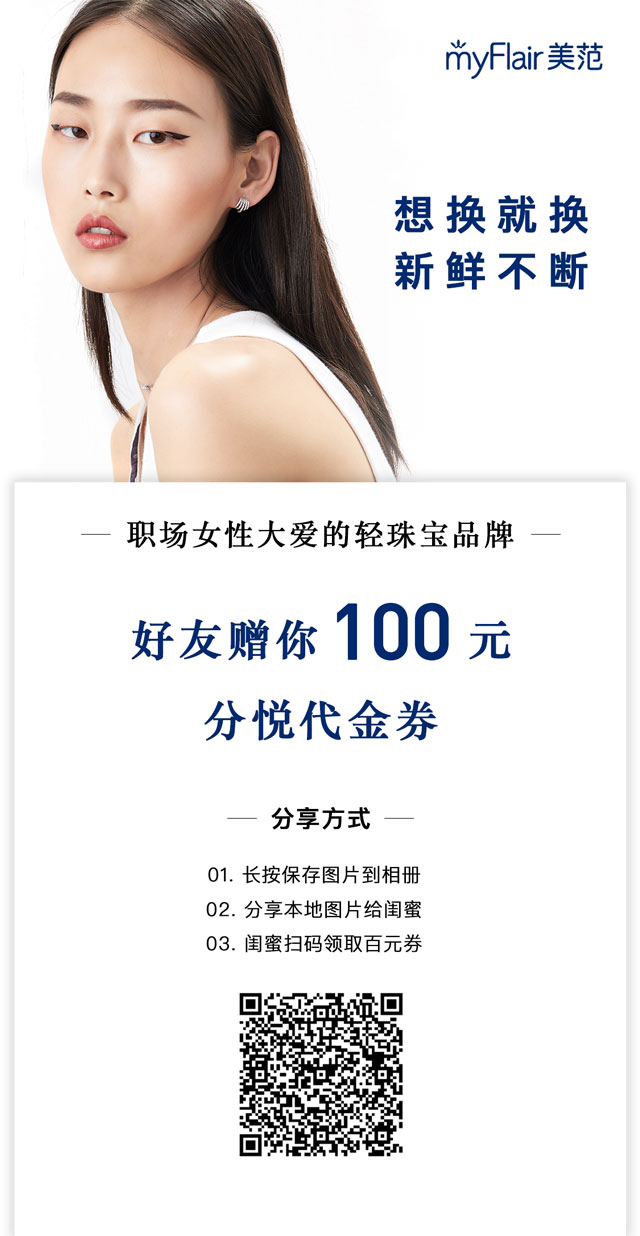
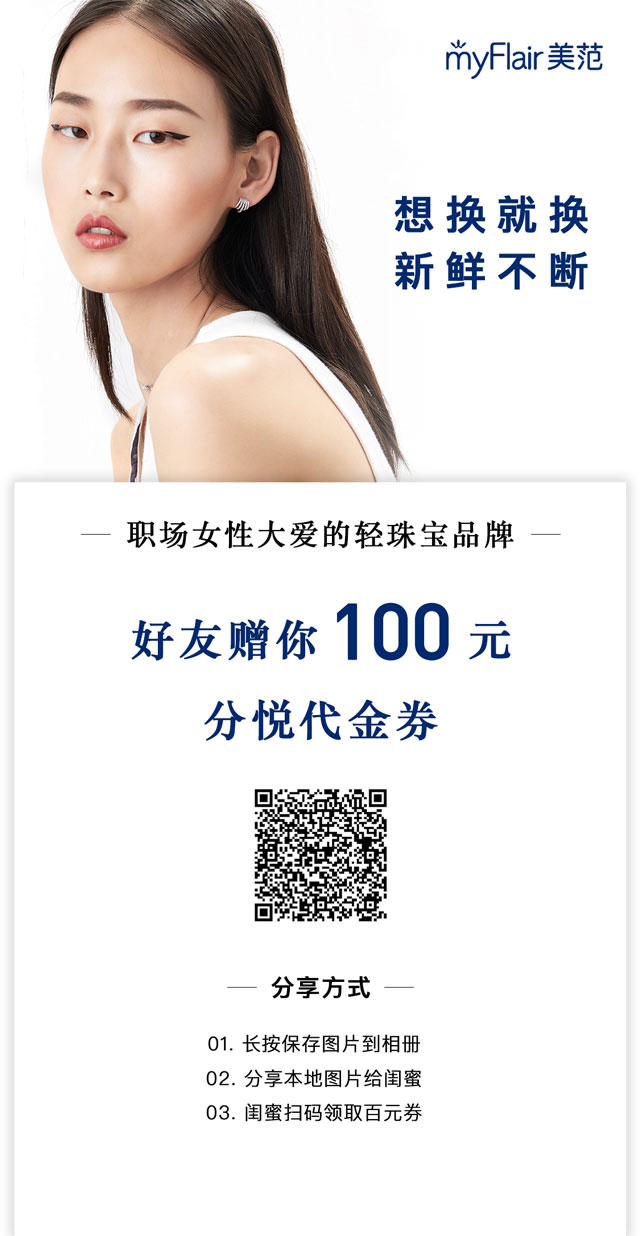
最新代码提交

Changed region(s): [[0.3125, 0.6149, 0.6562, 0.9531]]

diff --git a/src/main/webapp/myflair2/js/2019/pullnewmemberlog/get.js b/src/main/webapp/myflair2/js/2019/pullnewmemberlog/get.js
@@ -31,7 +31,7 @@ $(function(){
 						$(".friend_list_wrap").show().css("z-index","33");
 			            document.body.scrollTop = document.documentElement.scrollTop = 0;
 			            $(".share_wrap,.pop-save_wrap").show();
-			            $("#shareQRcode").attr("src","http://www.myflair.com.cn/getERWMImage1.do?mobile=15811559702");
+			            $("#shareQRcode").attr("src","http://www.myflair.com.cn/getERWMImage1.do?mobile="+mobile);
 					}else{
 						alert(data.msg);
 					}
@@ -65,18 +65,18 @@ $(function(){
 		$('.pop-save_wrap').hide();
 		oEvent.preventDefault(); 
 	});
+	var rlh = $(".rule_list_f").height();
 	$(".friend_list_wrap a.updown").on("click",function(){
 		var parent = $(this).parents(".friend_list_wrap");
-		var rlh = $(".rule_list_f").height(),
-			wh = $(window).height(),
-			showh = wh - 2*rlh,
-			smoveh = (wh - rlh)/2;
+		var	wh = $(window).height(),
+			showh = (wh/2)-rlh,
+			smoveh = rlh;
 		if (parent.hasClass('more') == false) {
             $(".friend_list_wrap").addClass("more");
-			$(".rule_list_f").animate({height:showh});  
+			$(".rule_list_f").animate({"height":showh});  
         }else{
 			$(".friend_list_wrap").removeClass("more");
-			$(".rule_list_f").animate({height:smoveh});  	 
+			$(".rule_list_f").animate({"height":smoveh});  	 
         }
 	})
 })

diff --git a/src/main/webapp/myflair2/css/2019/pullnewmemberlog/style.css b/src/main/webapp/myflair2/css/2019/pullnewmemberlog/style.css
@@ -38,7 +38,7 @@ img{width:100%;vertical-align:middle}
 .rule_wrap dd ul{padding-left:1rem;}
 .rule_wrap dd li{font-size:.9rem;color:#646464;line-height:1.6rem;padding-bottom:.6rem;padding-left:0.2rem;list-style-type:decimal; }
 .rule_wrap dd li span{color:#002a64;font-weight: bold;}
-.friend_list_wrap{background-color:#f7f7f7;position:absolute;width:100%;left:0;bottom:0;padding-bottom:1.5rem;z-index:30}
+.friend_list_wrap{background-color:#f7f7f7;position:fixed;width:100%;left:0;bottom:0;padding-bottom:1.5rem;z-index:30}
 .friend_list_wrap dl.rule_list_f{height:4rem;overflow-y:auto}
 .friend_list_wrap dt{width:65%;padding:0 0 1rem 0}
 .friend_list_wrap dt span{font-size:1.1rem}

diff --git a/src/main/java/com/myflair/common/utils/DateUtils.java b/src/main/java/com/myflair/common/utils/DateUtils.java
@@ -142,10 +142,10 @@ public class DateUtils {
      * @param p_date util.Date日期
      * @return int 年份
      */
-    public static int getYearOfDate(java.util.Date p_date) {
-        java.util.Calendar c = java.util.Calendar.getInstance();
+    public static int getYearOfDate(Date p_date) {
+        Calendar c = Calendar.getInstance();
         c.setTime(p_date);
-        return c.get(java.util.Calendar.YEAR);
+        return c.get(Calendar.YEAR);
     }
 
     /**
@@ -166,10 +166,10 @@ public class DateUtils {
      * @return int 月份
      * @Version1.0 2012-11-5 上午08:52:14 by 万久卫（jw.wan@zuche.com）
      */
-    public static int getMonthOfDate(java.util.Date p_date) {
-        java.util.Calendar c = java.util.Calendar.getInstance();
+    public static int getMonthOfDate(Date p_date) {
+        Calendar c = Calendar.getInstance();
         c.setTime(p_date);
-        return c.get(java.util.Calendar.MONTH) + 1;
+        return c.get(Calendar.MONTH) + 1;
     }
 
     /**
@@ -189,10 +189,10 @@ public class DateUtils {
      * @param p_date util.Date日期
      * @return int 日份
      */
-    public static int getDayOfDate(java.util.Date p_date) {
-        java.util.Calendar c = java.util.Calendar.getInstance();
+    public static int getDayOfDate(Date p_date) {
+        Calendar c = Calendar.getInstance();
         c.setTime(p_date);
-        return c.get(java.util.Calendar.DAY_OF_MONTH);
+        return c.get(Calendar.DAY_OF_MONTH);
     }
 
     /**
@@ -202,7 +202,7 @@ public class DateUtils {
      * @return int 周
      */
     public static int getWeekOfDate(String date) {
-        java.util.Date p_date = dateString2Date(date);
+        Date p_date = dateString2Date(date);
         return getWeekOfDate(p_date);
     }
 
@@ -213,9 +213,9 @@ public class DateUtils {
      * @return int 周
      */
     public static int getWeekOfDate(Date date) {
-        java.util.Calendar c = java.util.Calendar.getInstance();
+        Calendar c = Calendar.getInstance();
         c.setTime(date);
-        return c.get(java.util.Calendar.DAY_OF_WEEK) - 1;
+        return c.get(Calendar.DAY_OF_WEEK) - 1;
     }
 
     /**
@@ -224,10 +224,10 @@ public class DateUtils {
      * @param p_date util.Date日期
      * @return int 日份
      */
-    public static int getHourOfDate(java.util.Date p_date) {
-        java.util.Calendar c = java.util.Calendar.getInstance();
+    public static int getHourOfDate(Date p_date) {
+        Calendar c = Calendar.getInstance();
         c.setTime(p_date);
-        return c.get(java.util.Calendar.HOUR_OF_DAY);
+        return c.get(Calendar.HOUR_OF_DAY);
     }
 
     /**
@@ -236,10 +236,10 @@ public class DateUtils {
      * @param p_date util.Date日期
      * @return int 分钟
      */
-    public static int getMinuteOfDate(java.util.Date p_date) {
-        java.util.Calendar c = java.util.Calendar.getInstance();
+    public static int getMinuteOfDate(Date p_date) {
+        Calendar c = Calendar.getInstance();
         c.setTime(p_date);
-        return c.get(java.util.Calendar.MINUTE);
+        return c.get(Calendar.MINUTE);
     }
 
     /**
@@ -251,7 +251,7 @@ public class DateUtils {
      * @Version1.0 2012-11-5 上午08:58:44 by 万久卫（jw.wan@zuche.com）
      */
     public static String date2String(
-            java.util.Date p_utilDate, String p_format) {
+            Date p_utilDate, String p_format) {
         String l_result = "";
         if (p_utilDate != null) {
             SimpleDateFormat sdf = getSimpleDateFormat(p_format);
@@ -268,7 +268,7 @@ public class DateUtils {
      * @Version1.0 2012-11-5 上午08:58:58 by 万久卫（jw.wan@zuche.com）
      */
     public static String date2String(
-            java.util.Date p_utilDate) {
+            Date p_utilDate) {
         return date2String(p_utilDate, defaultPattern);
     }
 
@@ -520,8 +520,8 @@ public class DateUtils {
         for (int i = 0; i < countMonth + 1; i++) {
             //每次在原基础上累加一个月
 
-            months[i][0] = ca1.get(java.util.Calendar.YEAR);
-            months[i][1] = ca1.get(java.util.Calendar.MONTH);
+            months[i][0] = ca1.get(Calendar.YEAR);
+            months[i][1] = ca1.get(Calendar.MONTH);
             months[i][1] += 1;
             ca1.add(ca1.MONTH, 1);
         }
@@ -850,7 +850,7 @@ public class DateUtils {
         if (StringUtils.isNotBlank(time)) {
             SimpleDateFormat format = getSimpleDateFormat(defaultPattern);
             ParsePosition pos = new ParsePosition(0);
-            java.util.Date timeD = format.parse(time, pos);
+            Date timeD = format.parse(time, pos);
             if (timeD == null) {
                 format = getSimpleDateFormat(dateTimePattern);
                 pos.setIndex(0);

diff --git a/src/main/java/com/myflair/third/util/YouZanUtil.java b/src/main/java/com/myflair/third/util/YouZanUtil.java
@@ -206,7 +206,7 @@ public class YouZanUtil {
         YZClient client = new DefaultYZClient(new Token(YouZanUtil.getToken())); //new Sign(appKey, appSecret)
         YouzanUmpCouponSearchParams youzanUmpCouponSearchParams = new YouzanUmpCouponSearchParams();
         youzanUmpCouponSearchParams.setPageNo(1L);
-        youzanUmpCouponSearchParams.setPageSize(1000L);
+        youzanUmpCouponSearchParams.setPageSize(500L);
         youzanUmpCouponSearchParams.setStatus("ON");
 
         YouzanUmpCouponSearch youzanUmpCouponSearch = new YouzanUmpCouponSearch();
@@ -382,9 +382,9 @@ public class YouZanUtil {
         //YouzanUmpCouponTakeResult.UmpPromocardUserTakedetail result =YouZanUtil.couponPull("13264257229", coupon.getId());
 
        // addJf("13264257229");
-       // YouzanUmpCouponSearchResult.CouponGroup coupon = YouZanUtil.getCoupon("分悦代金券");
-       // System.out.printf(getWlStat("E2018051104060704890001")+"");
-        System.out.printf(YouZanUtil.isMemOrCustomByMobile("13121775554")+"");
+        // getWlStat("E2018051104060704890001")+""
+        YouzanUmpCouponSearchResult.CouponGroup coupon = YouZanUtil.getCoupon("分悦代金券");
+        System.out.printf(coupon.toString());
     }
 
 }

diff --git a/src/main/java/com/myflair/wechart/sharedata/Constants.java b/src/main/java/com/myflair/wechart/sharedata/Constants.java
@@ -6,8 +6,8 @@ import java.util.Map;
 
 public class Constants {
 
-    private static final String MYFLAIRLXIMG="http://www.myflair.com.cn/myflair/myflair/images/2019/coupontpl/hy.jpg";
-	private static final String MYFLAIPYQRLXIMG="http://www.myflair.com.cn/myflair/myflair/images/2019/coupontpl/pyq.jpg";
+    private static final String MYFLAIRLXIMG="http://www.myflair.com.cn/myflair/myflair/images/2018/coupontpl/hy.jpg";
+	private static final String MYFLAIPYQRLXIMG="http://www.myflair.com.cn/myflair/myflair/images/2018/coupontpl/pyq.jpg";
     private static final String MYFLAIRLXCONTENT="myFlair美范， 自带高级感\n" +"去宠爱自己一下吧～";
     private static final String MYFLAIRLXTITLE="轻珠宝  无限次可替换\n" + "好友刚送你100元现金券！";
     private static final String MYFLAIRLXPYQCONTENT="myFlair 美范 | 无限次 可替换\n" +"高级感轻珠宝, 200元代金券, 快去看看！";

diff --git a/src/main/java/com/myflair/admin/user/dao/UserDao.java b/src/main/java/com/myflair/admin/user/dao/UserDao.java
@@ -20,13 +20,13 @@ public interface UserDao {
   
     User selectById(Long id);
     
-    User query(Map<String,Object> params);
+    User query(Map<String, Object> params);
     
     int update(User record);
     
-    List<User> queryList(Map<String,Object> params);
+    List<User> queryList(Map<String, Object> params);
     
-    int queryCount(Map<String,Object> params);
+    int queryCount(Map<String, Object> params);
 
     
 }

diff --git a/src/main/java/com/myflair/qrcode/BaseLoginController1.java b/src/main/java/com/myflair/qrcode/BaseLoginController1.java
@@ -55,7 +55,7 @@ public class BaseLoginController1 {
 					BufferedImage image2 = MatrixToImageWriter.toBufferedImage(bitMatrix);
 					Graphics2D g2d=(Graphics2D)image.getGraphics();
 					g2d.setColor(Color.black);
-					g2d.drawImage(image2, 255, 780, 210, 210, null);
+					g2d.drawImage(image2, 220, 765, 210, 210, null);
 					ImageIO.write(image, "PNG", response.getOutputStream());
 					image.flush();
 					image2.flush();

diff --git a/src/main/java/com/myflair/third/dao/YouZanDataDao.java b/src/main/java/com/myflair/third/dao/YouZanDataDao.java
@@ -17,9 +17,9 @@ public interface YouZanDataDao {
 
     Integer getCountByOrderId(Map<String, Object> params);
 
-    Integer getCountByOrderNo(Map<String,Object> params);
+    Integer getCountByOrderNo(Map<String, Object> params);
 
-    OrderInfo getOrderDetail(Map<String,Object> params);
+    OrderInfo getOrderDetail(Map<String, Object> params);
 
     void updateOrderHistoryStatus(OrderHistory orderHistory);
 

diff --git a/src/main/java/com/myflair/common/utils/HttpUtil.java b/src/main/java/com/myflair/common/utils/HttpUtil.java
@@ -202,7 +202,7 @@ public class HttpUtil {
         CloseableHttpClient httpClient = HttpClients.createDefault();
         CloseableHttpResponse response = null;
         String responseContent  = null;
-        com.alibaba.fastjson.JSONObject result = null;
+        JSONObject result = null;
         try {
             //创建Get请求，
             HttpGet httpGet = new HttpGet(requestUrl);
